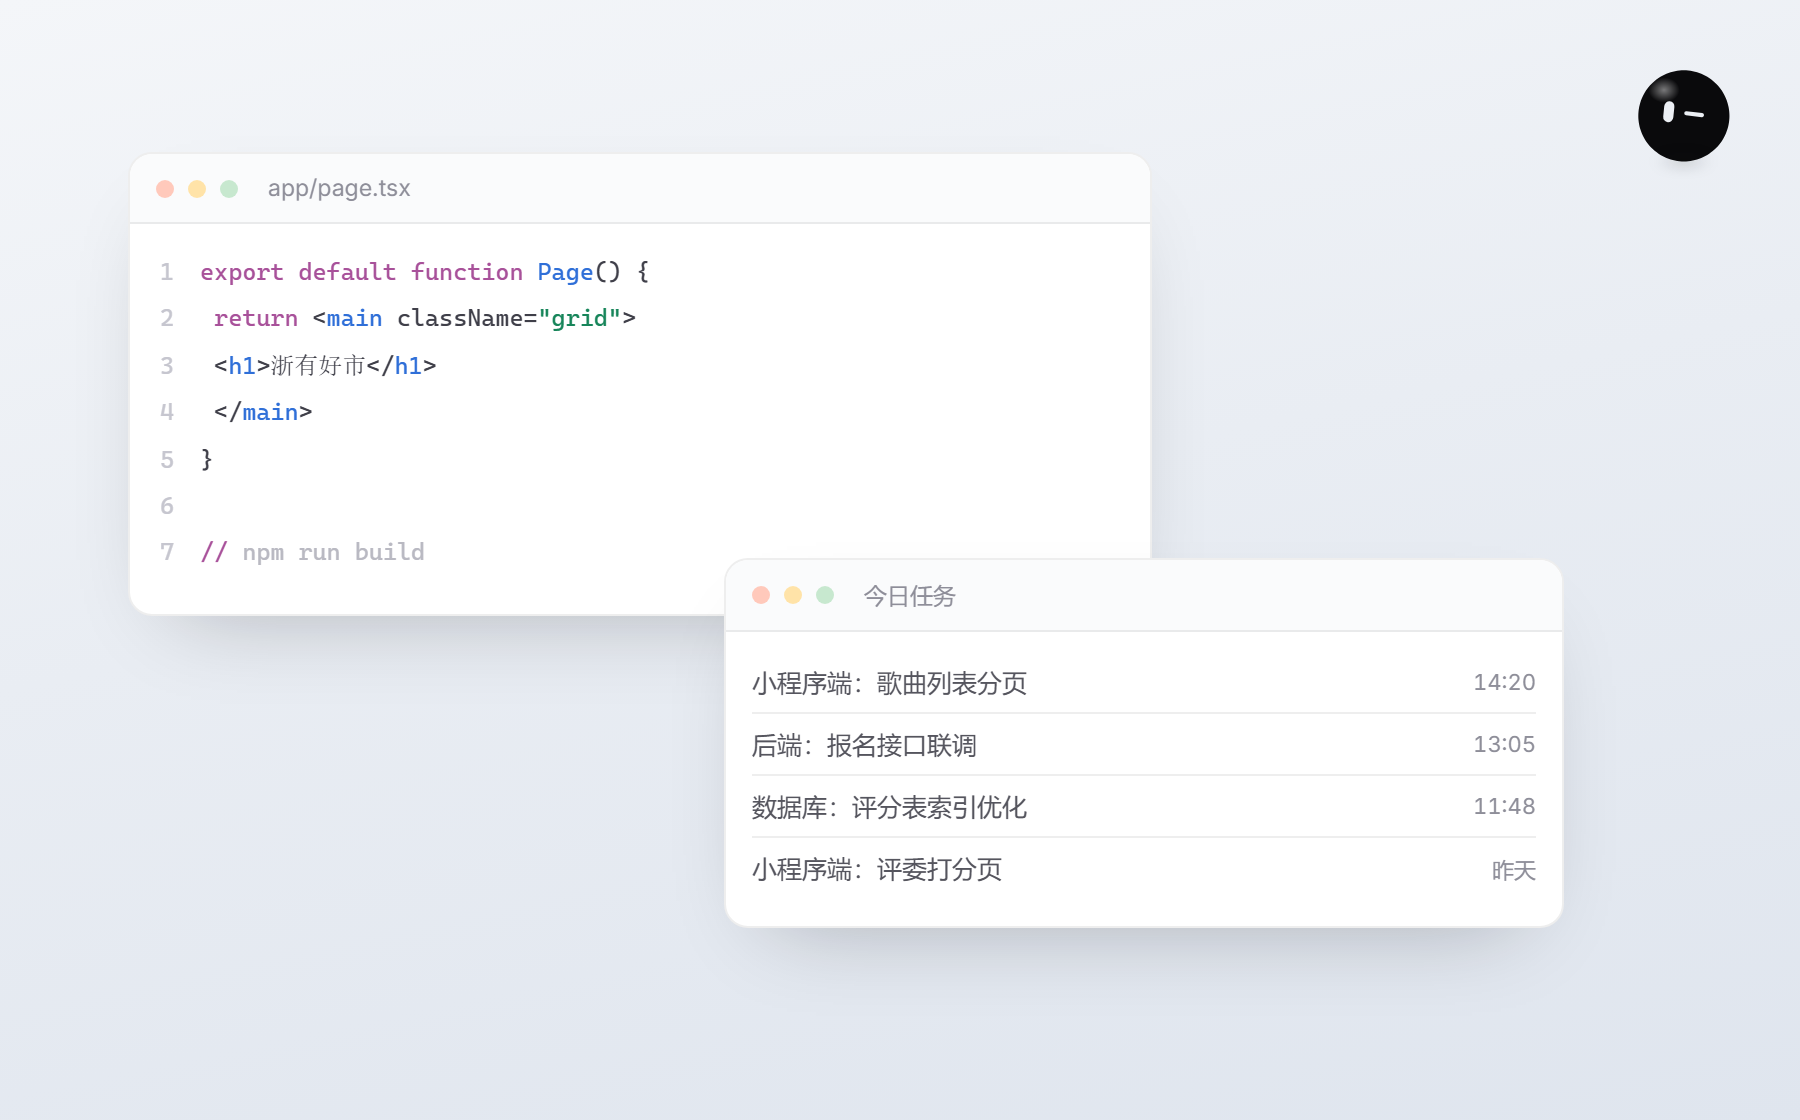
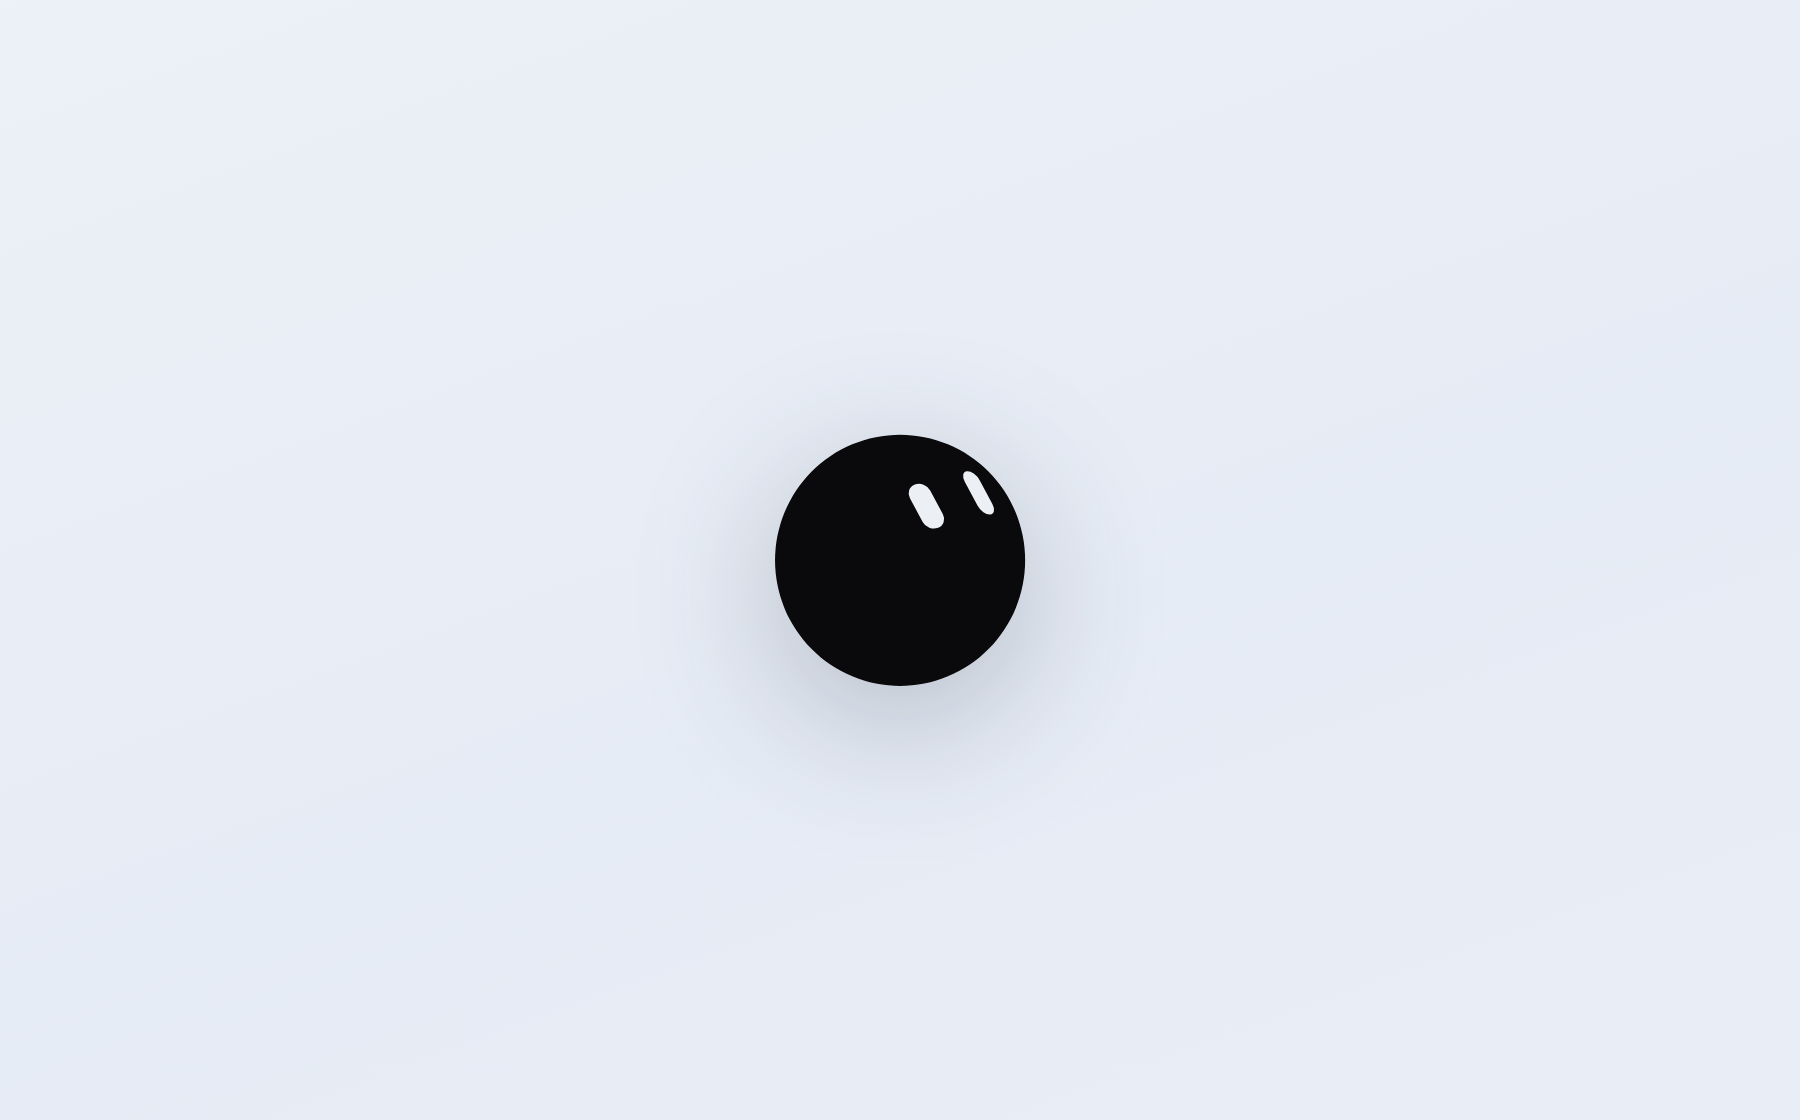
docs: 三张截图重做（真渲染，不是效果图）+ README 跟上今天的改动
用户："他们的截图和介绍应该过时了" —— 对。查下来两件事：

## 一、旧截图不只是旧，它画的是**被否掉的 UI**

旧图里有「全部/今日/进行中/待开始/已完成」筛选条 ——
而代码里写着「筛选条已移除（用户要求：不要筛选，直接把任务全列出来）」。
而且它其实是**效果图**（合成图）：图里那个"今日任务"卡片本项目根本没有，
球的位置在右边缘（真的在右下 22px）、球还是画的不是引擎渲的。

## 二、重做的办法：用**真渲染函数 + 真样式表**，只把数据编掉

`gen-mock-shots.cjs` 调 `projCard()` / `taskCard()`（main.ts 里导出的**真函数**）
和真 `style.css`，再让 `BotEngine` 出一帧真球 → Edge 无头渲染 → 「只裁不缩」。

为什么不用真面板截屏：真面板会显示**用户的真实项目**（要进公开仓库），
而且 Tauri 窗口抓屏要定位+裁剪，脆。现在这套可重复生成、外观保真、数据中性。

顺便把 `taskCard` 也导出了（截图要复用真结构；手抄必然漂移）。

## 三、途中踩到的坑（都写进脚本注释了）

1. **`.panel` 默认是隐形**的（`opacity:0`），要 `.panel.open` 才显示 ——
   第一版我写了 `show`，渲染出来一片空白。
2. **`.tcard` 有入场动画**（错峰延迟 + `both` 填充）→ 截图那一刻卡片停在 `opacity:0`，
   只有第一张半透明。截图要的是稳定态，所以禁掉动画。
3. **窗口尺寸是 CSS 像素、图片是 2x** —— 我按图片坐标写 `left:1050px`，
   球跑到右下角去了（用像素扫描查出来：深色像素在 x=[2211,2397]）。改用 `50%/50%`。
4. **缩放会引入重采样色噪**：`resize(1800x1120)`（宽高都没变！）把 371KB 撑到 526KB。
   改成**只裁不缩** → 316KB。
5. **调色板量化会把颜色做坏**：`convert("P", colors=256)` 让 12 个色块变成暗紫/土黄
   （数值检查：只对上 3/12 个调色板色）。用真彩。

## 四、README 跟着改

- **去掉了「效果图」的警告**，换成准确说法：卡片是真渲染函数画的、**数据是编的**
- **修了一处会误导用户的废弃脚本**：`./scripts/start-services.ps1` → `start-memoryd-silent.ps1`
  （前者头部写着「⚠⚠ 已废弃 —— 不要用它启动服务」，而且传参不对会**静默失败**）
- **补上球的三条神经**（① 库里有动静 ② 整体状况 ③ 没事干的表演）
- 修 `右下角一颗球` → `右上角`（真实位置是右上）

## 五、一次流程失误（记下来）

我一直把 README 改在**开源副本**上，然后"同步"时用正本覆盖了过去 —— **改动被自己覆盖了**。
正本才是改动的落点（开源是副本）。以后：**先改正本 → 再往副本同步**。

diff --git a/src/main.ts b/src/main.ts
@@ -660,6 +660,14 @@ export const __botPerfProbe = () => ({
 export const __botPerfSpecs = () => PERF.map((p) => ({ id: p.id, hold: p.hold, frame: p.frame }))
 export const __botPerfTick = (now: number) => tickPerform(now)
 
+/** 截图生成器用：出一帧**真球**的 SVG 内容（idle 状态）。
+    为什么需要：README 的截图里要有那颗球，而它是引擎画的 ——
+    手抄一份 SVG 必然和引擎漂移，所以直接调真引擎 + 真 `frameMarkup`。 */
+export const __mockBallFrame = (t = 1.2) => {
+  const e = new BotEngine(R, 'idle', null, null)
+  return frameMarkup(e.sample(t), curInk())
+}
+
 let shapeNextAt = 0            // 下一次换形状
 let colorNextAt = 0            // 下一次换色
 let inkShapeId: string = DEFAULT_SHAPE
@@ -2011,7 +2019,9 @@ export function projCard(p: Proj): string {
     ${acts}
   </div>`
 }
-function taskCard(p: Proj, t: Task, i = 0): string {
+/* 导出只为「截图生成器」能复用真卡片结构（`gen-mock-shots.cjs`）——
+   截图要用真类名真结构，手抄一份必然会和代码漂移。导出不改行为。 */
+export function taskCard(p: Proj, t: Task, i = 0): string {
   const st = taskLabel(t)
   return `
   <div class="tcard" style="animation-delay:${i * 45}ms">

diff --git a/dist/bundle.js b/dist/bundle.js
@@ -4344,6 +4344,10 @@
   });
   var __botPerfSpecs = () => PERF.map((p) => ({ id: p.id, hold: p.hold, frame: p.frame }));
   var __botPerfTick = (now) => tickPerform(now);
+  var __mockBallFrame = (t = 1.2) => {
+    const e = new BotEngine(R2, "idle", null, null);
+    return frameMarkup(e.sample(t), curInk());
+  };
   var shapeNextAt = 0;
   var colorNextAt = 0;
   var inkShapeId = DEFAULT_SHAPE;

diff --git a/dist/index.html b/dist/index.html
@@ -75,7 +75,7 @@
 </section>
 
 <!-- BUILD-STAMP: 构建时由 npm run front 自动写入，用来确认面板跑的是哪一版 -->
-<meta name="panel-build" content="09-16 15:54">
+<meta name="panel-build" content="09-16 22:16">
 <script src="./bundle.js"></script>
 </body>
 </html>

diff --git a/README.md b/README.md
@@ -10,7 +10,7 @@
 ---
 
 **English** — A minimal, **read-only** floating-ball panel that shows the progress of projects coordinated by
-multiple AI agents. It sits on your desktop as a draggable orb (right-top corner by default), and expands into a
+multiple AI agents. It sits on your desktop as a draggable orb (top-right corner by default), and expands into a
 compact card list: *project name · status · done/total · task squares*. Click a task to copy a ready-to-paste
 handoff prompt; paste it into any agent (DeepSeek Harness, Codex, …) and the agent picks up the work, writes its
 results back to the shared library, and the panel updates itself in real time via SSE.
@@ -22,6 +22,10 @@ frontend. Requires the [codex-memory](https://github.com/Paeonia-wh/codex-memory
 ![只有一颗球](docs/01-ball-only.png)
 <p align="center"><sub>开机后桌面上只有一颗球 · 点它才展开</sub></p>
 
+> ℹ 图里的卡片是**用面板自己的渲染函数 + 自己的样式表**画出来的
+> （`projCard()` / `taskCard()` / 真引擎出的那颗球），**项目数据是编的**（不是真项目）。
+> 皮肤、结构、字号就是你能跑出来的样子。
+
 ---
 
 ## 全景：它是怎么跑起来的
@@ -29,7 +33,7 @@ frontend. Requires the [codex-memory](https://github.com/Paeonia-wh/codex-memory
 ```mermaid
 flowchart TB
     subgraph 人["你（人）"]
-        P[悬浮球面板<br/>右下角一颗球]
+        P[悬浮球面板<br/>右上角一颗球]
     end
 
     subgraph AI["AI 会话们（DSH / Codex / 任意 agent）"]
@@ -108,6 +112,21 @@ sequenceDiagram
 
 **只有这些信息**。知识图谱、踩过的坑、决策记录、交接——那些都是**给 AI 读的**，面板不显示。
 
+### 角落那颗球本身也会说话
+
+球不只是个按钮。它有三条互不打扰的"神经"：
+
+| | 什么时候动 | 怎么动 |
+|---|---|---|
+| **① 库里有动静** | 别的会话领了活 / 发了产出 / 把任务标完 / 计划被驳回 | 蓝点、睁大眼、感叹号（**只对值得看的事件反应**，分三档 + 冷却限流） |
+| **② 库里的整体状况** | 有活在推进 / 有卡住的 / 全闲 | 呼吸和视线的**幅度**跟着变（警觉 / 正常 / 打盹）—— 颜色仍是纯随机 |
+| **③ 你没事干** | 空闲约 20 秒 / 40 秒 | 荡秋千、蹦一下、原地转两个圈（**不打扰**：你鼠标一靠近它就停） |
+
+球还会自己眨眼、歪头、变形状（形状 25~50 秒、颜色 4~10 秒随机轮换）。
+
+> **物理边界**：球只有 54px 且钉在右上角（向上只有 22px 余量），
+> 所以"蹦"靠**压扁+拉伸**骗眼睛、不靠大位移 —— 它不会跑出自己的位置。
+
 ---
 
 ## 快速开始
@@ -115,7 +134,9 @@ sequenceDiagram
 ```bash
 # 1) 先跑起共享项目库（另一个仓库）
 git clone https://github.com/Paeonia-wh/codex-memory.git
-cd codex-memory/repo && ./scripts/start-services.ps1
+cd codex-memory/repo
+./scripts/start-memoryd-silent.ps1     # 起 PostgreSQL + memoryd
+#    ⚠ 不要用 start-services.ps1 —— 它**已废弃**（会弹终端窗口 + 传参不对会静默失败）
 #    详细步骤见：https://github.com/Paeonia-wh/codex-memory/blob/main/docs/SETUP.md
 
 # 2) 再跑这个面板
@@ -143,11 +164,19 @@ cd src-tauri && cargo build --release
 
 ## 特性
 
-- **悬浮球**：`bloub` 引擎驱动（会眨眼、视线跟着鼠标、可拖动）；开机自启、不占任务栏、空白处鼠标穿透
+- **悬浮球**：`bloub` 引擎驱动（眨眼、视线跟着鼠标、可拖动、自己变形状换颜色）；
+  开机自启、不占任务栏、空白处鼠标穿透
 - **实时**：PostgreSQL 触发器 → memoryd SSE → 面板毫秒级刷新（带指纹比对，数据没变不重绘）
 - **任务格**：一个方块 = 一个任务，颜色 = 状态，一眼看出分布
 - **接续块**：任务级指令，含 `task_key`，粘给任意 AI 都能精确接上
-- **不打扰**：未拆解的项目给「让 AI 拆任务」指令；已完成的安静待着
+- **球会说话**：库里发生事它动一下；整体状况变了它的呼吸/视线跟着变（见上面「角落那颗球本身也会说话」）
+- **右上角两个按钮**：「开始一个新东西」（复制"先讨论清楚再建项目"的做法）、
+  「怎么记录进共享库」（复制记录要求）
+- **不打扰**：未拆解的项目给「让 AI 拆任务」指令；已完成的安静待着；
+  你看面板或鼠标靠近球的时候，球不表演
+
+> 另有一个**独立的**计划审批面板（`scripts/project_review_panel.py`，跑在 codex-memory 那侧）：
+> 浏览器里点「批准/拒绝」计划提案。它和本面板（Tauri）是两个东西，本面板依然**只读**。
 
 ---
 
